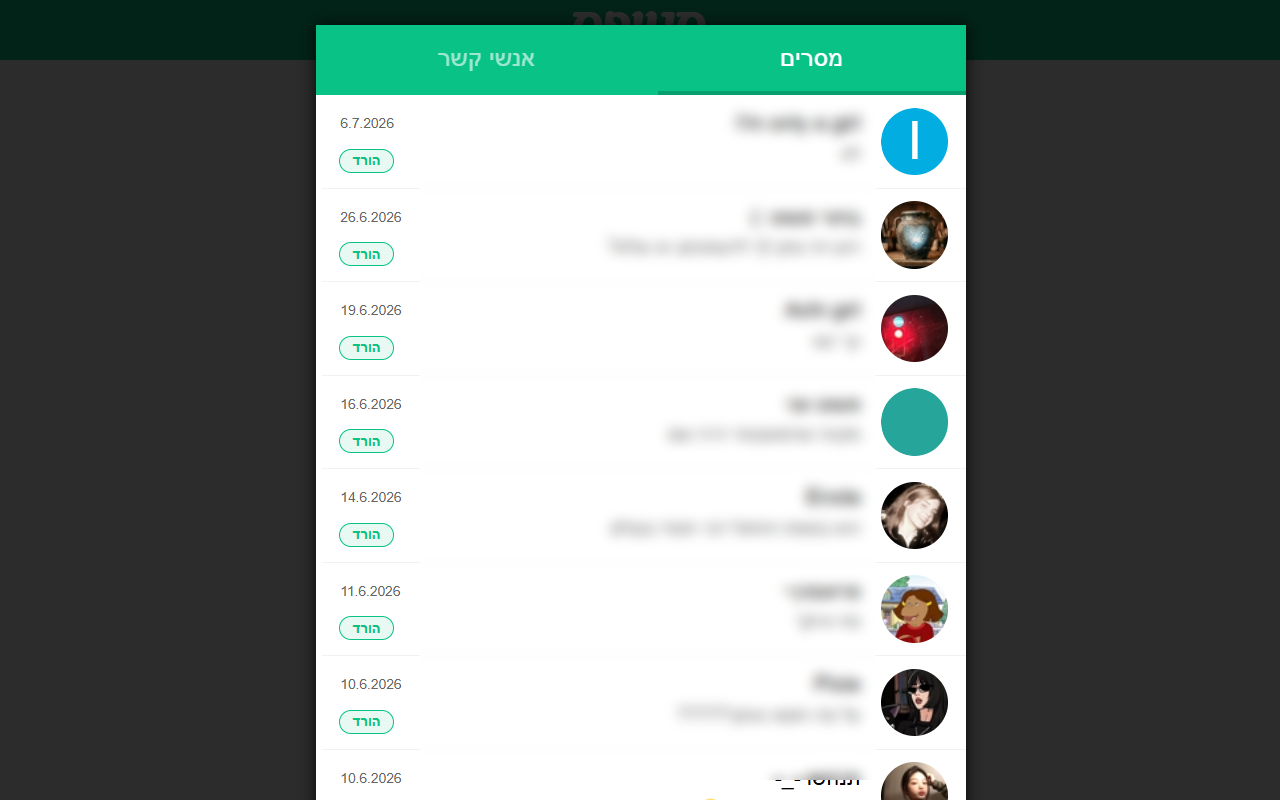
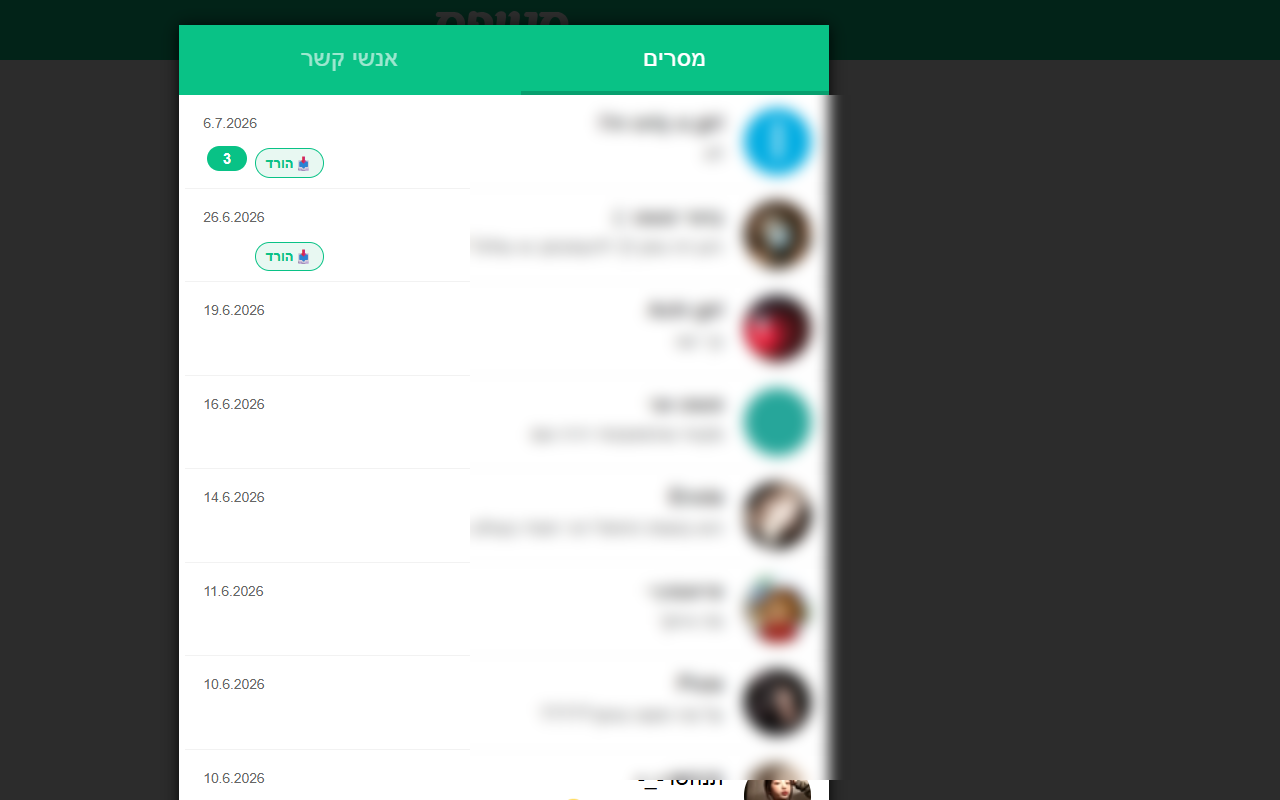
fix(stips-download): bump v1.0.1 and remove unused storage permission

diff --git a/extensions/stips-download/content.js b/extensions/stips-download/content.js
@@ -88,40 +88,6 @@
     return true;
   }
 
-  function extractCardUserName(item, link) {
-    if (link) {
-      const linkText = cleanRawUserName(link.textContent);
-      if (isValidUsername(linkText)) return linkText;
-
-      const userHeader = link.closest('[class*="user"], [class*="author"], [class*="profile"], [class*="header"], [class*="item"]');
-      if (userHeader) {
-        const nickEls = userHeader.querySelectorAll('[class*="user-name"], [class*="username"], [class*="nick"], [class*="author"], strong, b');
-        for (const el of nickEls) {
-          if (el.children.length > 0) continue;
-          const t = cleanRawUserName(el.textContent);
-          if (isValidUsername(t)) return t;
-        }
-
-        const spans = userHeader.querySelectorAll('span, a');
-        for (const s of spans) {
-          if (s.children.length > 0) continue;
-          const t = cleanRawUserName(s.textContent);
-          if (isValidUsername(t)) return t;
-        }
-      }
-    }
-
-    if (item) {
-      const directUserEls = item.querySelectorAll('[class*="username"], [class*="user-name"], [class*="author"], [class*="nick"]');
-      for (const el of directUserEls) {
-        if (el.children.length > 0) continue;
-        const t = cleanRawUserName(el.textContent);
-        if (isValidUsername(t)) return t;
-      }
-    }
-
-    return 'משתמש';
-  }
 
   // 2. Chat Header Download Button: Injected DIRECTLY inside .messages-toolbar mat-toolbar
   // Eliminates any white bar and sits cleanly next to the 3-dots actions area.
@@ -217,65 +183,20 @@
         startDownloadFlow(pid, partnerName);
       });
 
+      row.style.position = 'relative';
       row.appendChild(btn);
     });
   }
 
-  // 4. Pen-Friends Feed Cards: Injected inside .item-card on /pen-friends
-  function injectPenFriendsButtons() {
-    if (!window.location.pathname.includes('pen-friends')) return;
-
-    const cards = document.querySelectorAll('.item-card, app-pen-friend-card, [class*="pen-friend-card"]');
-    cards.forEach((card) => {
-      if (card.querySelector('.stips-download-row-btn')) return;
-
-      const link = card.querySelector('a[href*="/messages/"], a[href*="/profile/"]');
-      if (!link) return;
-
-      const href = link.getAttribute('href') || '';
-      const m = href.match(/\/(?:messages|profile)\/(\d+)/);
-      if (!m) return;
-
-      const pid = Number(m[1]);
-      if (myProfileInfo.myId && pid === myProfileInfo.myId) return;
-
-      const name = extractCardUserName(card, link);
-
-      try {
-        if (window.getComputedStyle(card).position === 'static') {
-          card.style.position = 'relative';
-        }
-      } catch (e) {}
-
-      const btn = document.createElement('button');
-      btn.className = 'stips-download-row-btn';
-      btn.type = 'button';
-      btn.title = `הורד שיחה עם ${name} (${pid})`;
-      btn.innerHTML = `
-        <span class="stips-dl-row-icon">${DOWNLOAD_ICON_SVG}</span>
-        <span class="stips-dl-row-text">הורד</span>
-      `;
-
-      btn.addEventListener('click', (e) => {
-        e.preventDefault();
-        e.stopPropagation();
-        startDownloadFlow(pid, name);
-      });
-
-      card.appendChild(btn);
-    });
-  }
-
-  // 5. Update UI: Orchestrates header, inbox list, and pen friends
+  // 4. Update UI: Orchestrates header and inbox list (strictly no buttons in pen-friends, sidebars, or headers)
   function updateUI() {
-    // Prune any rogue button in site navbar or input area
+    // Prune any rogue buttons
     document.querySelectorAll(
-      'header #stips-download-header-btn, .site-header #stips-download-header-btn, app-header #stips-download-header-btn, nav #stips-download-header-btn, [class*="navbar"] #stips-download-header-btn, input ~ #stips-download-header-btn, textarea ~ #stips-download-header-btn'
+      'header #stips-download-header-btn, .site-header #stips-download-header-btn, app-header #stips-download-header-btn, nav #stips-download-header-btn, [class*="navbar"] #stips-download-header-btn, input ~ #stips-download-header-btn, textarea ~ #stips-download-header-btn, .item-card .stips-download-row-btn, app-pen-friends .stips-download-row-btn, [class*="pen-friend"] .stips-download-row-btn'
     ).forEach((b) => b.remove());
 
     updateChatHeaderButton();
     injectInboxListButtons();
-    injectPenFriendsButtons();
   }
 
   // 6. Shadow DOM Modal Infrastructure (Zero-Flicker Architecture & Pointer Protection)

diff --git a/extensions/stips-download/styles.css b/extensions/stips-download/styles.css
@@ -35,29 +35,37 @@ mat-drawer .stips-download-row-btn,
 [class*="sidebar"] .stips-download-row-btn,
 nav .stips-download-row-btn,
 aside .stips-download-row-btn,
-/* Strictly hide buttons on question pages, answers, and comments */
+/* Strictly hide buttons on question pages, answers, comments, and pen-friends */
 app-ask .stips-download-row-btn,
 app-question .stips-download-row-btn,
 .ask-page .stips-download-row-btn,
 [class*="ask"] .stips-download-row-btn,
 [class*="question"] .stips-download-row-btn,
 [class*="answer"] .stips-download-row-btn,
-[class*="response"] .stips-download-row-btn {
+[class*="response"] .stips-download-row-btn,
+app-pen-friends .stips-download-row-btn,
+[class*="pen-friend"] .stips-download-row-btn,
+.item-card .stips-download-row-btn {
   display: none !important;
   visibility: hidden !important;
   pointer-events: none !important;
 }
 
-/* Clean, side-aligned Download Button for conversation rows & list items */
+/* Ensure row is relative anchor */
+a.list-message {
+  position: relative !important;
+}
+
+/* Clean, side-aligned Download Button for conversation rows (shifted right to never overlap unread badge) */
 .stips-download-row-btn {
   position: absolute !important;
-  left: 14px !important;
-  bottom: 10px !important;
+  left: 56px !important;
+  bottom: 8px !important;
   display: inline-flex !important;
   align-items: center !important;
   justify-content: center !important;
   gap: 4px !important;
-  padding: 3px 10px !important;
+  padding: 3px 9px !important;
   background-color: #e8f8f2 !important;
   color: #09c286 !important;
   border: 1px solid #09c286 !important;
